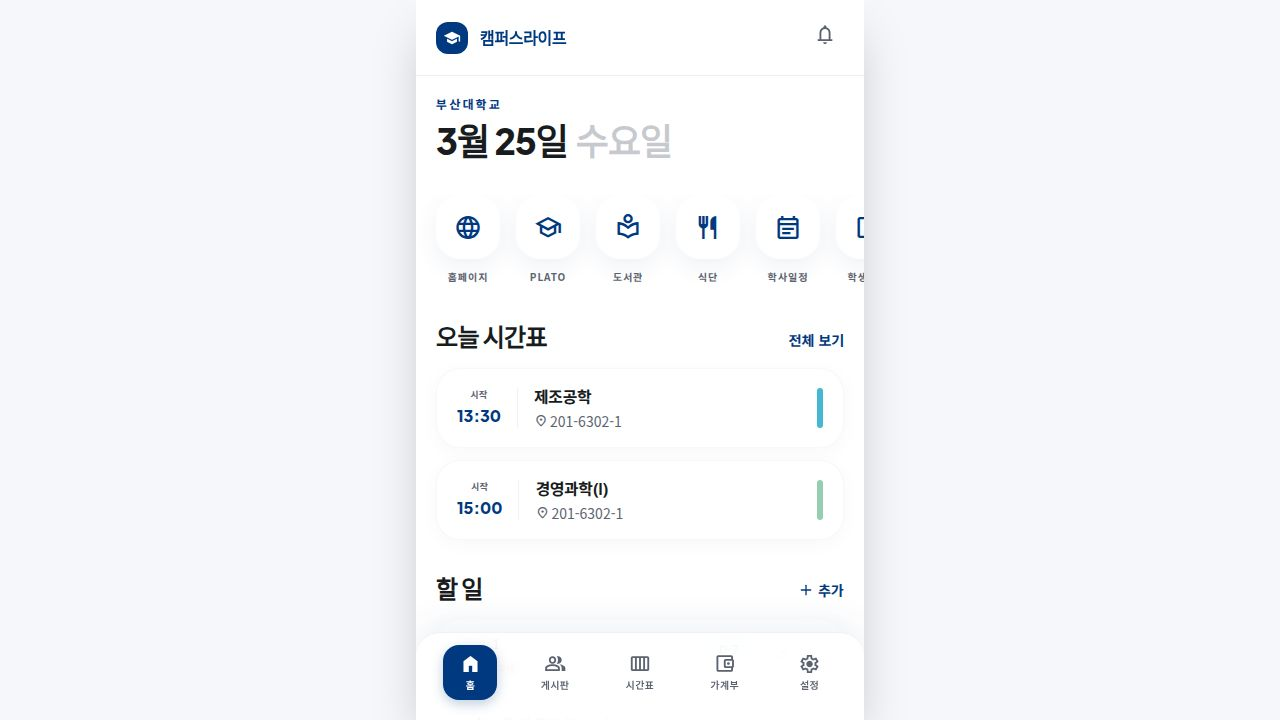
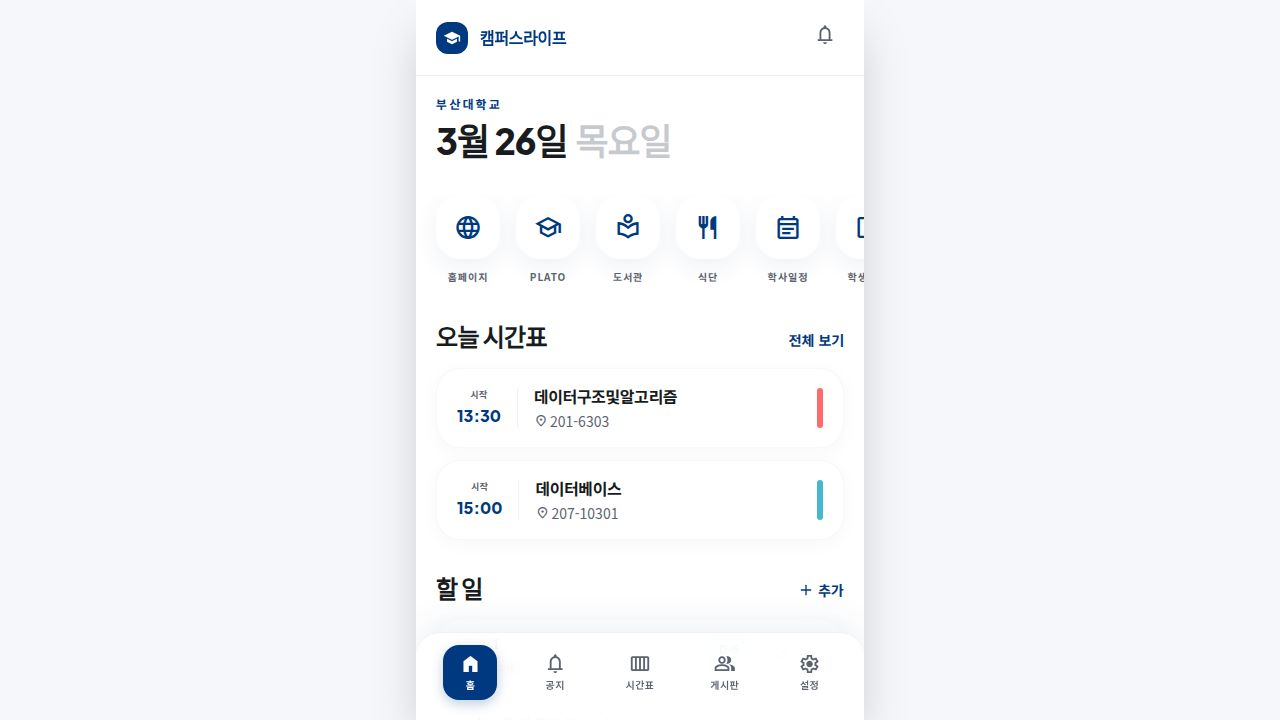
Replace finance tab with announcements and update navigation order
Add a new 'NoticesPage' component and update navigation routes in App.tsx and Layout.tsx to replace the 'FinancePage' tab with a new 'NoticesPage' tab, reordering the navigation items to: Home, Notices, Schedule, Board, Settings.

Replit-Commit-Author: Agent
Replit-Commit-Session-Id: 96626fa3-1dfd-439e-bf65-60e43ddbb2d6
Replit-Commit-Checkpoint-Type: full_checkpoint
Replit-Commit-Event-Id: aebadc76-97d6-4282-9ac8-a02b99deab96
Replit-Commit-Screenshot-Url: https://storage.googleapis.com/screenshot-production-us-central1/813070eb-4b0b-4735-8923-052edda06d13/96626fa3-1dfd-439e-bf65-60e43ddbb2d6/5tjbYWp
Replit-Helium-Checkpoint-Created: true

diff --git a/artifacts/campus-life/src/pages/NoticesPage.tsx b/artifacts/campus-life/src/pages/NoticesPage.tsx
@@ -1,0 +1,89 @@
+import { Layout } from "@/components/Layout";
+import { Bell, ChevronRight, School, BookOpen } from "lucide-react";
+import { cn } from "@/lib/utils";
+import { useState } from "react";
+
+const CATEGORIES = [
+  { key: "school", label: "학교 공지", icon: School, color: "text-blue-600 bg-blue-50" },
+  { key: "dept", label: "학과 공지", icon: BookOpen, color: "text-violet-600 bg-violet-50" },
+];
+
+const MOCK_NOTICES = {
+  school: [
+    { id: 1, title: "2026학년도 1학기 수강신청 안내", date: "2026.03.10", isNew: true },
+    { id: 2, title: "2026학년도 봄 학위수여식 일정 안내", date: "2026.02.28", isNew: false },
+    { id: 3, title: "학생증 재발급 신청 안내", date: "2026.02.20", isNew: false },
+    { id: 4, title: "도서관 이용 시간 변경 안내", date: "2026.02.15", isNew: false },
+    { id: 5, title: "2026년 장학금 신청 일정 안내", date: "2026.02.10", isNew: false },
+  ],
+  dept: [
+    { id: 1, title: "전공 필수 과목 수강 신청 안내", date: "2026.03.12", isNew: true },
+    { id: 2, title: "졸업논문 제출 일정 안내", date: "2026.03.05", isNew: true },
+    { id: 3, title: "산학협력 인턴십 모집 안내", date: "2026.02.25", isNew: false },
+    { id: 4, title: "학과 세미나 일정 공지", date: "2026.02.18", isNew: false },
+  ],
+};
+
+export function NoticesPage() {
+  const [activeCategory, setActiveCategory] = useState<"school" | "dept">("school");
+
+  const notices = MOCK_NOTICES[activeCategory];
+
+  return (
+    <Layout>
+      <div className="p-6 pt-12 pb-4">
+        <p className="text-muted-foreground font-medium mb-1">부산대학교</p>
+        <h1 className="text-3xl text-foreground">
+          공지 <span className="text-primary">사항</span>
+        </h1>
+      </div>
+
+      <div className="px-4 mb-4">
+        <div className="flex gap-2 bg-slate-100 p-1 rounded-2xl">
+          {CATEGORIES.map((cat) => (
+            <button
+              key={cat.key}
+              onClick={() => setActiveCategory(cat.key as "school" | "dept")}
+              className={cn(
+                "flex-1 flex items-center justify-center gap-1.5 py-2.5 rounded-xl text-sm font-bold transition-all",
+                activeCategory === cat.key
+                  ? "bg-white text-primary shadow-sm"
+                  : "text-muted-foreground hover:text-foreground"
+              )}
+            >
+              <cat.icon className="w-4 h-4" />
+              {cat.label}
+            </button>
+          ))}
+        </div>
+      </div>
+
+      <div className="px-4 pb-28 space-y-2">
+        <div className="bg-amber-50 border border-amber-200 rounded-2xl px-4 py-3 mb-4 flex items-start gap-3">
+          <Bell className="w-4 h-4 text-amber-500 mt-0.5 shrink-0" />
+          <p className="text-xs text-amber-700 font-medium">
+            공지사항 연동 기능은 준비 중입니다. 현재는 예시 데이터가 표시됩니다.
+          </p>
+        </div>
+
+        {notices.map((notice) => (
+          <button
+            key={notice.id}
+            className="w-full bg-card rounded-2xl border border-border/50 px-4 py-4 flex items-center justify-between text-left hover:bg-muted/30 transition-colors shadow-sm"
+          >
+            <div className="flex-1 min-w-0 pr-3">
+              <div className="flex items-center gap-2 mb-1">
+                {notice.isNew && (
+                  <span className="text-[10px] font-bold bg-primary text-primary-foreground px-1.5 py-0.5 rounded-full shrink-0">NEW</span>
+                )}
+                <p className="text-sm font-semibold text-foreground truncate">{notice.title}</p>
+              </div>
+              <p className="text-xs text-muted-foreground">{notice.date}</p>
+            </div>
+            <ChevronRight className="w-4 h-4 text-muted-foreground shrink-0" />
+          </button>
+        ))}
+      </div>
+    </Layout>
+  );
+}

diff --git a/artifacts/campus-life/src/App.tsx b/artifacts/campus-life/src/App.tsx
@@ -10,6 +10,7 @@ import { SchedulePage } from "./pages/SchedulePage";
 import { FinancePage } from "./pages/FinancePage";
 import { MealsPage } from "./pages/MealsPage";
 import { SettingsPage } from "./pages/SettingsPage";
+import { NoticesPage } from "./pages/NoticesPage";
 import { Layout } from "./components/Layout";
 
 const queryClient = new QueryClient({
@@ -40,8 +41,9 @@ function Router() {
   return (
     <Switch>
       <Route path="/" component={HomePage} />
-      <Route path="/board" component={BoardPage} />
+      <Route path="/notices" component={NoticesPage} />
       <Route path="/schedule" component={SchedulePage} />
+      <Route path="/board" component={BoardPage} />
       <Route path="/finance" component={FinancePage} />
       <Route path="/meals" component={MealsPage} />
       <Route path="/settings" component={SettingsPage} />

diff --git a/artifacts/campus-life/src/components/Layout.tsx b/artifacts/campus-life/src/components/Layout.tsx
@@ -6,11 +6,11 @@ export function Layout({ children }: { children: ReactNode }) {
   const [location] = useLocation();
 
   const navItems = [
-    { name: "홈", path: "/",        icon: "home" },
-    { name: "게시판", path: "/board",  icon: "group" },
-    { name: "시간표", path: "/schedule", icon: "calendar_view_week" },
-    { name: "가계부", path: "/finance", icon: "account_balance_wallet" },
-    { name: "설정",  path: "/settings", icon: "settings" },
+    { name: "홈",     path: "/",         icon: "home" },
+    { name: "공지",   path: "/notices",   icon: "notifications" },
+    { name: "시간표", path: "/schedule",  icon: "calendar_view_week" },
+    { name: "게시판", path: "/board",     icon: "group" },
+    { name: "설정",   path: "/settings",  icon: "settings" },
   ];
 
   return (
